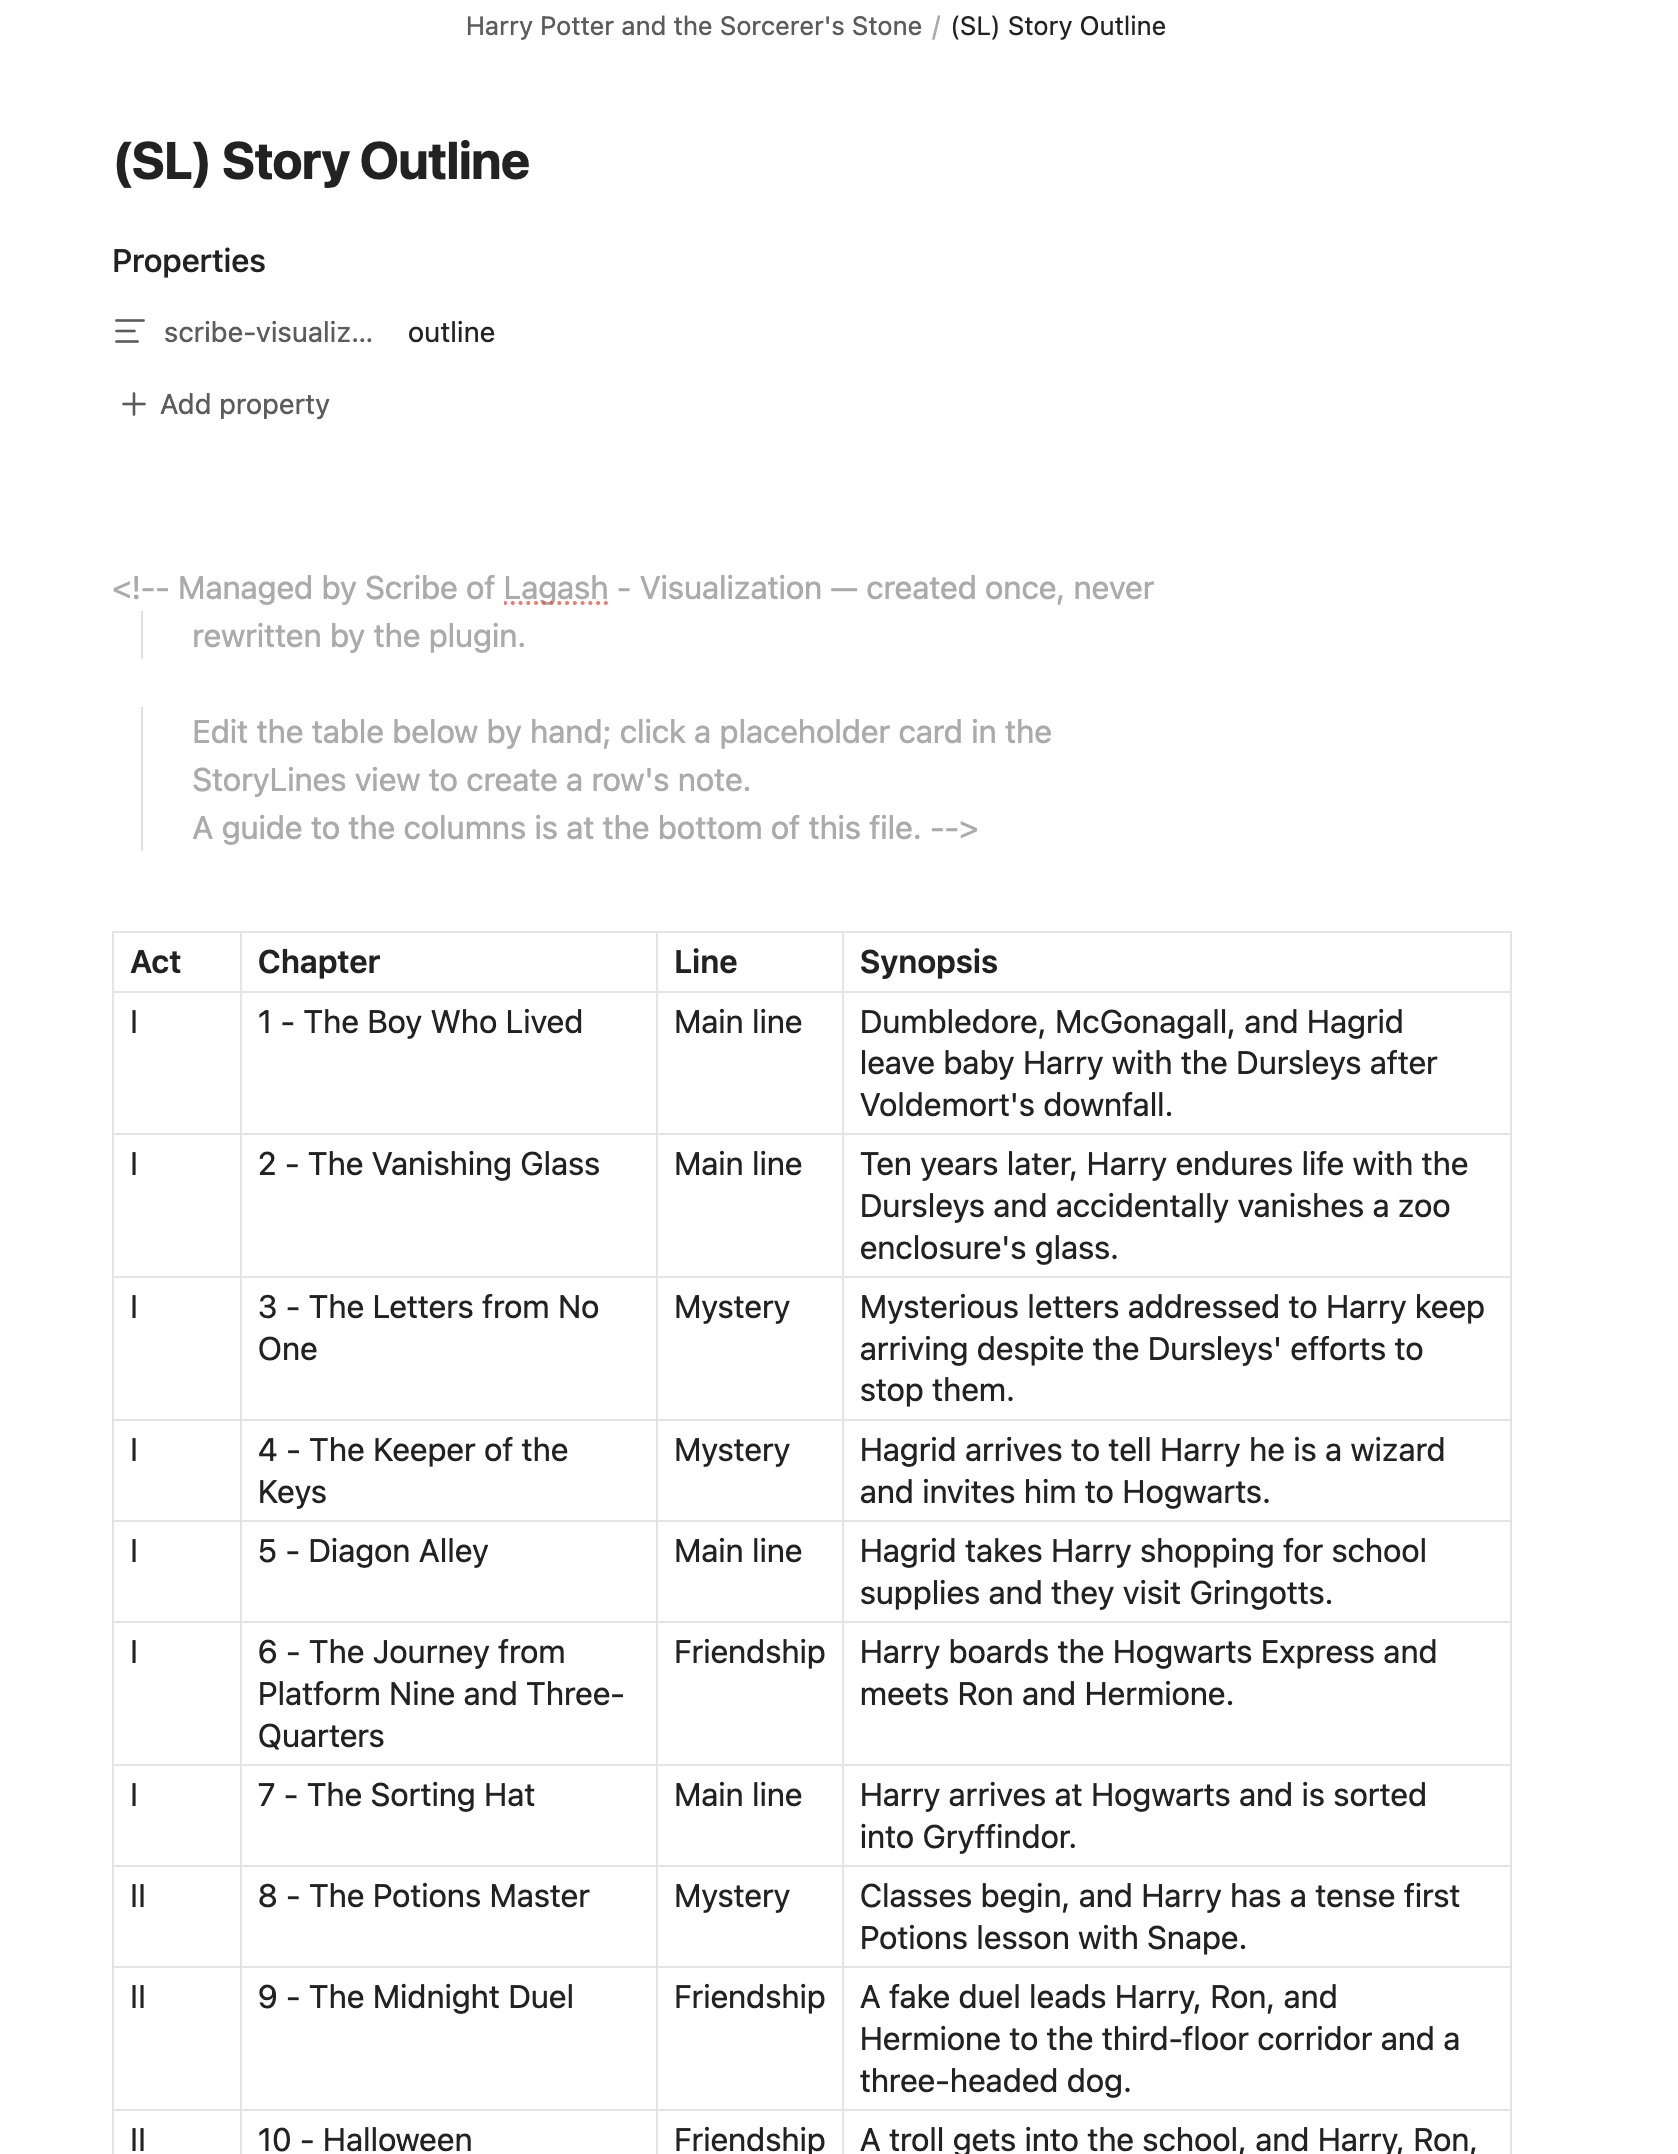
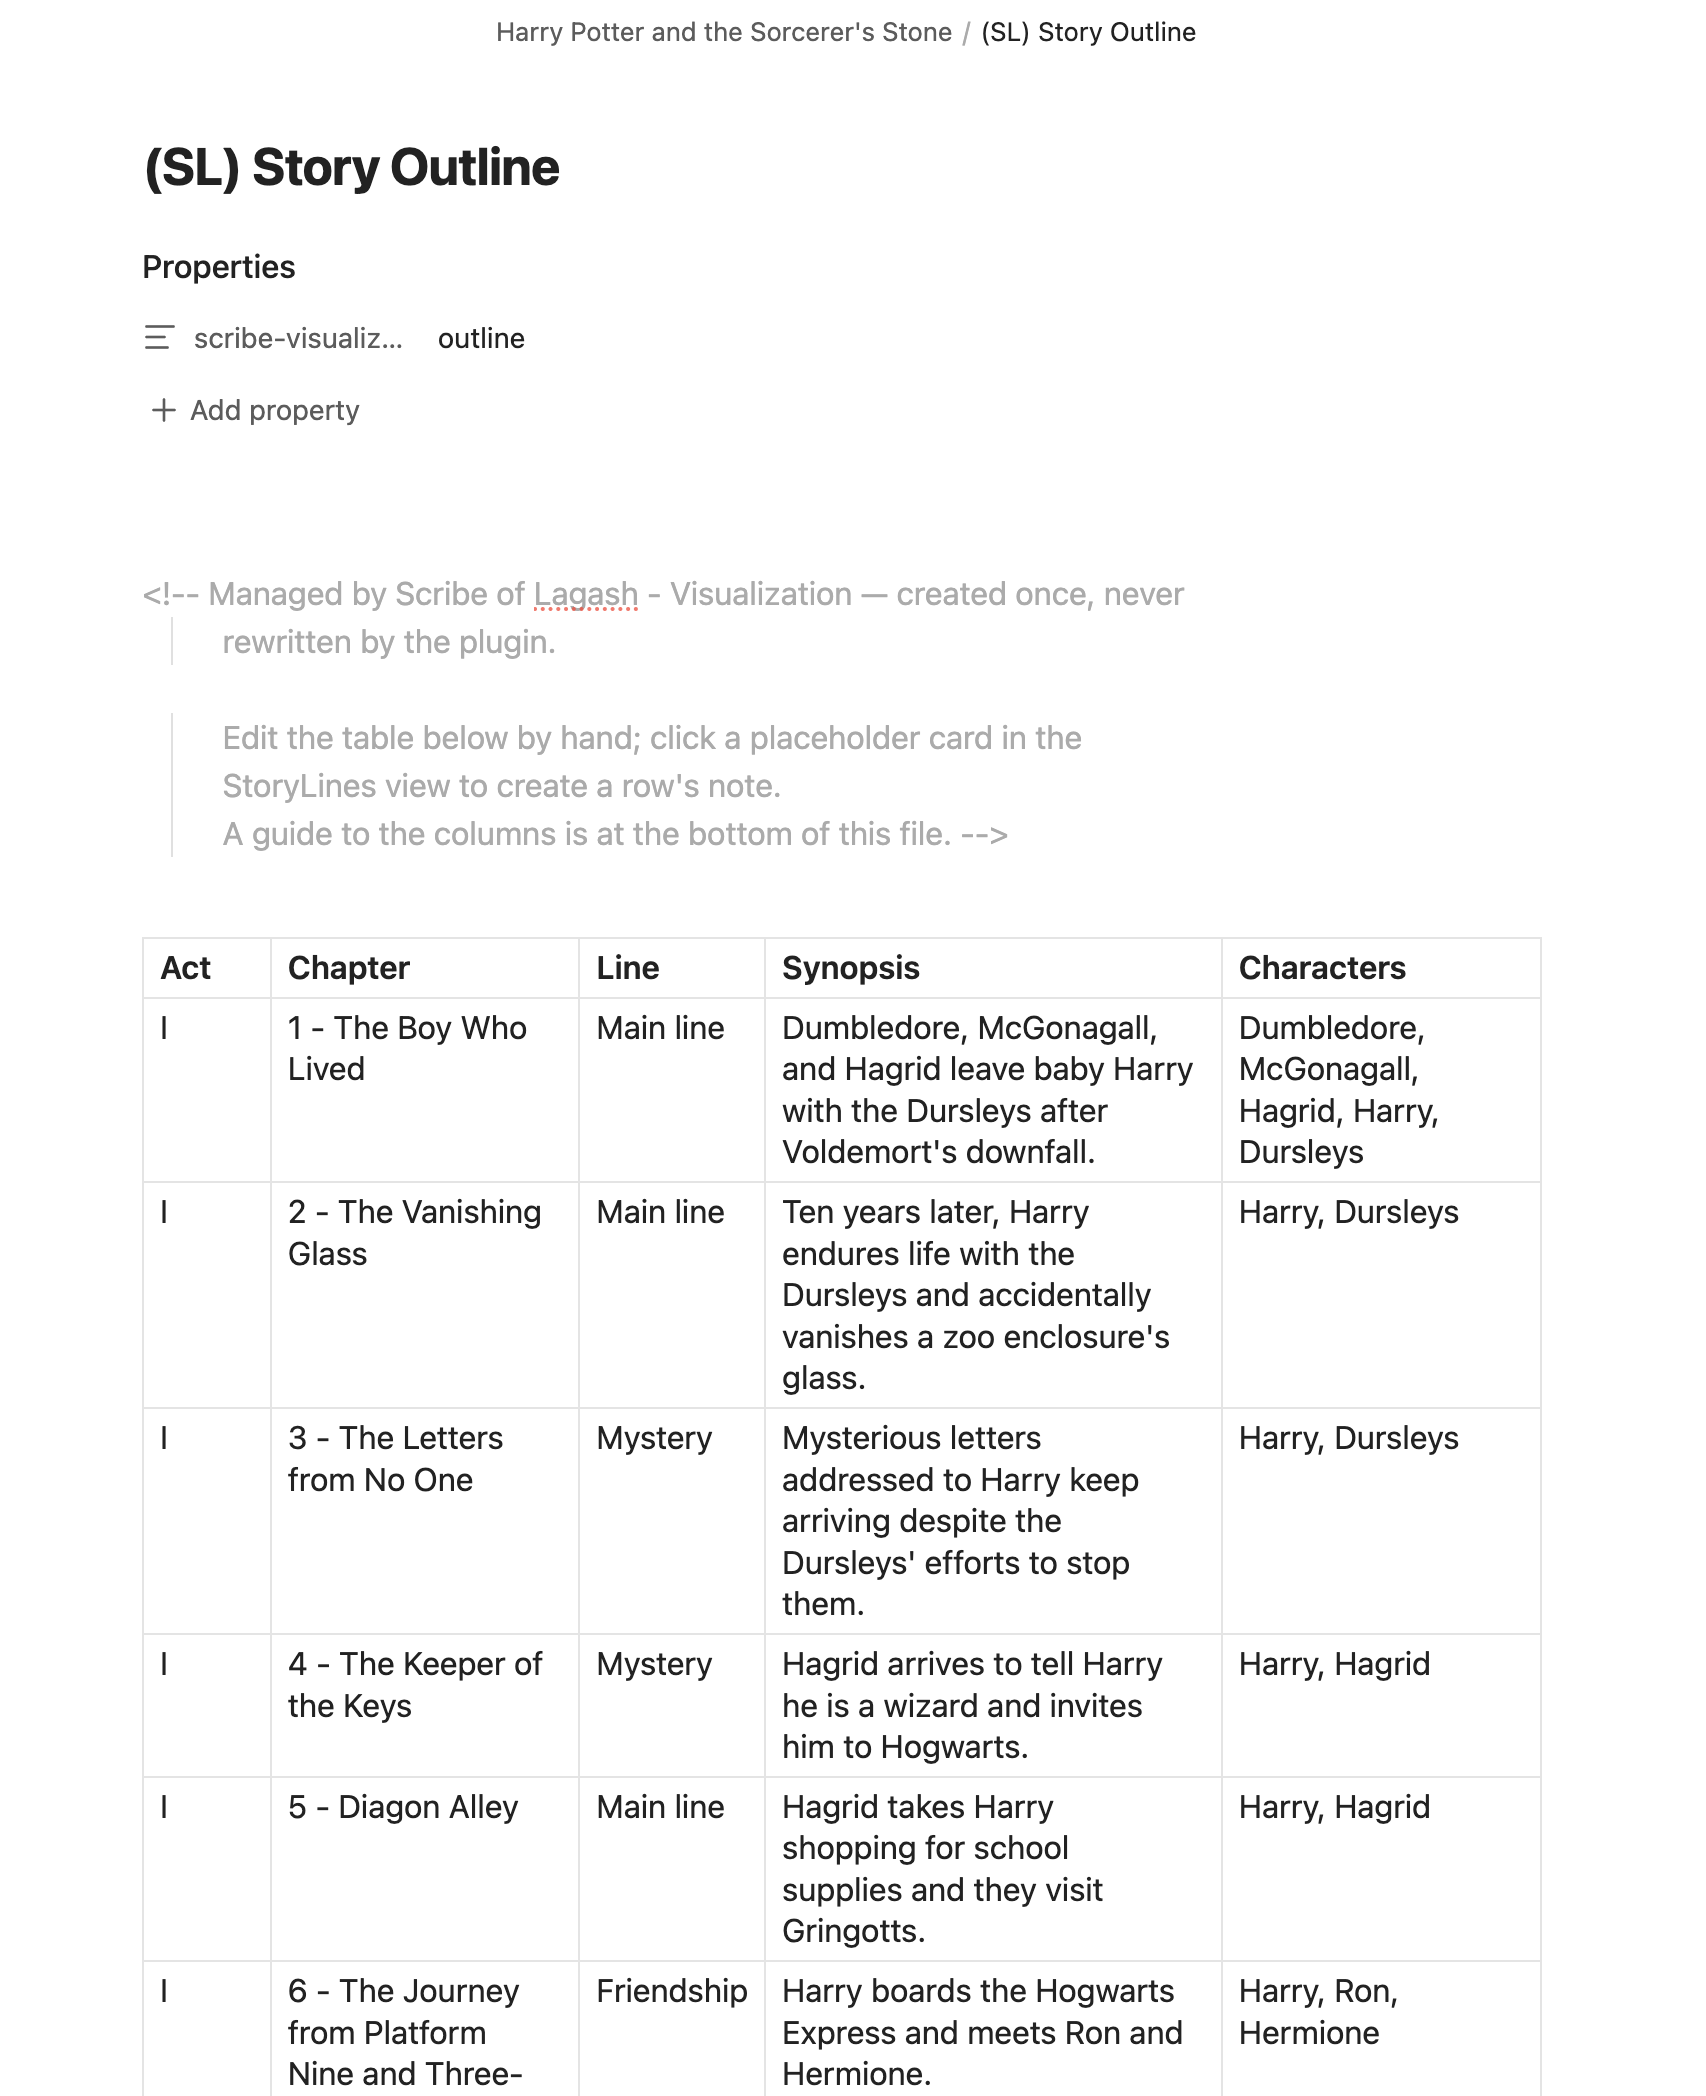
docs: update READEME with images and change "Characters mode" with "Characters mode view"

diff --git a/styles.css b/styles.css
@@ -505,7 +505,7 @@
 	padding-left: var(--size-4-4);
 }
 
-/* Read-only Characters mode: cards open their note on click but can't be dragged. */
+/* Read-only Characters mode view: cards open their note on click but can't be dragged. */
 .scribe-canvas-view.is-readonly .scribe-canvas-card {
 	cursor: pointer;
 }
@@ -518,7 +518,7 @@
 	cursor: default;
 }
 
-/* Characters mode: the "No characters listed" strip stays one scrollable row so
+/* Characters mode view: the "No characters listed" strip stays one scrollable row so
    it never takes space from the lines above it. */
 .scribe-canvas-view.is-readonly .scribe-canvas-unplaced {
 	flex: none;

diff --git a/src/views/charactersModel.ts b/src/views/charactersModel.ts
@@ -6,7 +6,7 @@ import { OutlineReconciliation } from "../data/outline";
 import { CanvasCard, CanvasLine, CanvasModel, LINE_COLOR_PALETTE, manuscriptColumns } from "./canvasModel";
 
 /**
- * Pure model for the read-only Characters mode: one derived line per
+ * Pure model for the read-only Characters mode view: one derived line per
  * character, each holding the chapters/scenes that name them, on the same
  * manuscript-order columns the StoryLines mode starts from. Nothing here is
  * ever saved — the lines and the card-on-several-lines duplication exist only

diff --git a/tests/views/viewModes.test.ts b/tests/views/viewModes.test.ts
@@ -66,7 +66,7 @@ test("the StoryLines mode builds exactly the canvas model", () => {
 	);
 });
 
-test("the Characters mode ignores the layout and groups by character", () => {
+test("the Characters mode view ignores the layout and groups by character", () => {
 	const empty: LineLayout = { lines: [], placements: {} };
 	const model = VIEW_MODES.characters.buildModel({ entries: [entry(["Alice"])], layout: empty, recon });
 	assert.deepEqual(model.lines.map((l) => l.def.name), ["Alice"]);

diff --git a/src/data/outline.ts b/src/data/outline.ts
@@ -204,7 +204,7 @@ export interface OutlineReconciliation {
 	fulfilledLineIds: Record<string, string>;
 	/**
 	 * Vault path -> the fulfilling row's `Characters` cell, for every fulfilled
-	 * path whose row lists any — lets the Characters mode merge them with the
+	 * path whose row lists any — lets the Characters mode view merge them with the
 	 * note's own `scribe-note-characters`.
 	 */
 	fulfilledCharacters: Record<string, string[]>;

diff --git a/AGENTS.md b/AGENTS.md
@@ -40,7 +40,7 @@ folder-based approach before adding a new frontmatter field or setting.
   **lines** (horizontal coloured tracks) and drags each card onto a line. The
   arrangement is saved in the Lines file. `LineView`, `VIEW_TYPE_LINE_VIEW`,
   ribbon icon / "Open lines" command.
-- **Characters mode** — a read-only alternative to the Line view, chosen with
+- **Characters mode view** — a read-only alternative to the Line view, chosen with
   the combo box at the top right of the same tab (mode kept in the leaf's view
   state, default Line view). One derived line per character, alphabetical,
   built by `charactersModel` in `views/charactersModel.ts` from
@@ -196,7 +196,7 @@ Entry point: [`src/main.ts`](src/main.ts) → `ScribeVisualizationPlugin`.
 | Path breadcrumb | [`src/data/pathContext.ts`](src/data/pathContext.ts) | Pure: `folderContext(filePath, baseFolder)` → folder segments shown under a card title |
 | Lines file I/O | [`src/data/lineFile.ts`](src/data/lineFile.ts) | `readLineLayout` / `writeLineLayout` for the per-story `Lines.md` (write preserves the note body via `processFrontMatter`, or creates the file) |
 | Line render model | [`src/views/canvasModel.ts`](src/views/canvasModel.ts) | Pure, unit-tested: `canvasModel(entries, layout, outline?)` → lines + real/ghost `cards` + `unplaced` + `plannedUnplaced`; `manuscriptColumns` (each card's default column on the shared reading-order axis); every layout edit (`moveCard` — drop at an exact column, pushing a card already there and its right neighbours over, no compaction; `alignToOutlineOrder` — snap the board back to the Story Outline: ghost cards drop any dragged placement and return to the line their `Line` cell names; a real note whose row names a line that exists in `Lines.md` (`OutlineReconciliation.fulfilledLineIds`) moves onto that line too, the same way — a real note with no row, or whose row names no valid line, keeps its current line; every placed card's column snaps to reading order (offered only when a Story Outline exists); `reconcilePlacements`, `applyPlannedPlacements`, `addLine` / `renameLine` / `recolorLine` / `moveLine` / `removeLine`, `cloneLayout`, `starterLayout`, `starterLayoutFromOutline` — a first layout with one line per outline `Line` value, entries seeded onto the line their row names at their manuscript column). **All layout maths live here, not in the view.** |
-| Characters model | [`src/views/charactersModel.ts`](src/views/charactersModel.ts) | Pure, unit-tested: `charactersModel(entries, reconciliation)` → a `CanvasModel` with one derived line per character for the read-only Characters mode (needs `OutlineReconciliation.fulfilledCharacters`) |
+| Characters mode viewl | [`src/views/charactersModel.ts`](src/views/charactersModel.ts) | Pure, unit-tested: `charactersModel(entries, reconciliation)` → a `CanvasModel` with one derived line per character for the read-only Characters mode view (needs `OutlineReconciliation.fulfilledCharacters`) |
 | View modes | [`src/views/viewModes.ts`](src/views/viewModes.ts) | Pure, unit-tested registry of the StoryLines tab's modes (`VIEW_MODES`): each `ViewModeDef` says whether it is `editable`, its empty/unplaced-strip wording, and its `buildModel`. **The view never checks which mode it is in** — it reads the descriptor (`isEditable()`, `def.buildModel`). A new mode (places, dates, …) is one entry here plus its model function; `parseViewMode` coerces saved view state |
 | Line view | [`src/views/lineView.ts`](src/views/lineView.ts) | `ItemView` (`VIEW_TYPE_LINE_VIEW`). DOM + pointer-drag only: renders from `canvasModel`, calls the pure ops via `mutate()` (push undo snapshot → apply → debounced save → re-render). Reads `Lines.md` + the outline on open / story-folder setting change / index change; a toolbar ⟳ button (shown only when `missingOutlineLines()` is non-empty) adds the lines the outline names but `Lines.md` lacks, an "Align cards to Story Outline " button (shown only while `outlineRows` is non-empty) re-spreads cards onto their reading-order columns, both as one undoable `mutate`; creates notes from ghost cards via a `confirm` modal |
 | Confirm modal | [`src/views/confirmModal.ts`](src/views/confirmModal.ts) | `confirm(app, {title, body, cta})` → `Promise<boolean>` (Obsidian ships no confirm primitive) |

diff --git a/README.md b/README.md
@@ -56,7 +56,7 @@ plugins for planning and writing stories:
   to the StoryLines file (`StoryLines.md`) automatically; `Mod+Z` undoes.
 
   <img src="https://raw.githubusercontent.com/aescanes/scribe-of-lagash-visualization/main/docs/images/storylines-tab.png" alt="StoryLines view" width="600">
-- **Characters mode** — the combo box at the top right of the StoryLines tab
+- **Characters mode view** — the combo box at the top right of the StoryLines tab
   switches between **StoryLines** and **Characters**. Characters keeps the same
   look but is read-only: one line per character (alphabetical), each showing
   the chapters/scenes that name them in reading order, so a scene with two
@@ -67,6 +67,8 @@ plugins for planning and writing stories:
   non-clickable cards, and notes with no characters sit in a "No characters
   listed" strip. Nothing is moved, created or saved in this mode, and each tab
   remembers its own mode.
+
+  <img src="https://raw.githubusercontent.com/aescanes/scribe-of-lagash-visualization/main/docs/images/character-lines-tab.png" alt="StoryLines view" width="600">
 - **Story Outline file** *(optional)* — name a file under **Story Outline file
   name** in settings and click **Create**; it's written as an empty
   Markdown table (Act / Chapter / Scene / Line / Synopsis). The `.md` extension
@@ -76,7 +78,10 @@ plugins for planning and writing stories:
   on the StoryLines view, and clicking one creates the note (title, Synopsis,
   frontmatter) on that line. Once a note exists its Synopsis shows on the
   card; a row that disagrees with the real note/folder gets a ⚠ marker — the
-  files always win. See
+  files always win.
+  
+  The optional `Characters` column (comma-separated names)
+  feeds the **Characters mode view** view, including for notes not written yet. See
   [docs/feature-plans/outline-file-plan.md](docs/feature-plans/outline-file-plan.md).
 
   <img src="https://raw.githubusercontent.com/aescanes/scribe-of-lagash-visualization/main/docs/images/story-outline.png" alt="Story Outline file" width="500">
@@ -171,7 +176,9 @@ e.g. a `Chapter` cell of `1 - The beginning` plans `Chapter 1 - The beginning.md
 the same as if you'd typed that title directly. The `Act` / `Chapter` / `Scene`
 words and folder names follow the **Title language** setting. `Line` is a line
 name or id from the StoryLines file; `Synopsis` shows on the card and becomes
-the note body when you create it. A row with neither a `Chapter` nor a `Scene`
+the note body when you create it. List the people in a scene under `Characters`
+(comma-separated, e.g. `Harry, Ron, Hermione`) to enable the **Characters mode view**
+view: each name becomes a line showing the chapters/scenes it appears in. A row with neither a `Chapter` nor a `Scene`
 value is ignored, and un-numbered units (`Prologue`, …) can't be planned here —
 create those notes directly. The Story Outline file created for you repeats
 this guide below the table.

diff --git a/docs/feature-plans/characters-view-plan.md b/docs/feature-plans/characters-view-plan.md
@@ -1,4 +1,4 @@
-# Implementation plan — the Characters mode of StoryLines
+# Implementation plan — the Characters mode view of StoryLines
 
 Status: **Built (phases 1–3).** Decisions below were confirmed by the maintainer. One refinement: a note/outline conflict is only flagged when *both* sides list characters and they differ — the outline column is optional, so an empty side is not a conflict.
 Branch: `feat/characters-storylines-view`.
@@ -23,7 +23,7 @@ The source of truth for "who appears where":
   `OutlineRow.characters`), which also covers planned notes that have no file yet.
 
 This follows the plugin's core principle: the plugin never edits notes, and the
-Characters mode **writes nothing at all** — not even `Lines.md`.
+Characters mode view **writes nothing at all** — not even `Lines.md`.
 
 ## What already exists and gets reused
 
@@ -37,7 +37,7 @@ Characters mode **writes nothing at all** — not even `Lines.md`.
 | Line colours | `LINE_COLOR_PALETTE` in `canvasModel.ts` |
 
 > Note: "one card belongs to exactly one line" is a rule of the StoryLines mode
-> (`AGENTS.md`). In Characters mode a scene with two characters **must** appear
+> (`AGENTS.md`). In Characters mode view a scene with two characters **must** appear
 > on two lines — that is the point of the view. It is derived data, never saved,
 > so it doesn't conflict with the Lines-file rule.
 
@@ -81,9 +81,9 @@ view can reuse the existing renderer:
   "Create N planned notes" buttons; ghost cards are shown dashed but a click does
   **not** create a note (see open question 3). Real cards still open their note
   on click. `Mod+Z` is a no-op in this mode.
-- Characters mode does **not** require `Lines.md`: it works with only notes, only
+- Characters mode view does **not** require `Lines.md`: it works with only notes, only
   an outline, or both. The "Create lines" prompt is skipped.
-- `autoPlace()` / `save()` are skipped while in Characters mode (nothing to
+- `autoPlace()` / `save()` are skipped while in Characters mode view (nothing to
   write); the in-memory StoryLines `layout` and its undo stack are kept so
   switching back loses nothing.
 - Persist the chosen mode in the leaf's view state (`getState` / `setState`) so it
@@ -135,7 +135,7 @@ story" section + architecture table + the one-card-one-line note), this plan.
   Decision: Union of both and use the same warning icon with a small message with this "conflict"
 2. **Where is the selected mode remembered?** 
   Decision: Per-tab view state (recommended, no setting added, in line with "favour fewer settings")
-3. **Ghost cards (planned, no note yet) in Characters mode:** 
+3. **Ghost cards (planned, no note yet) in Characters mode view:** 
   Decision: Show them dashed and non-clickable (recommended — the mode is read-only)
 4. **Line order for characters:** 
   Decision: Alphabetical

diff --git a/CHANGELOG.md b/CHANGELOG.md
@@ -8,7 +8,7 @@ is based on [Keep a Changelog](https://keepachangelog.com/en/1.1.0/).
 ## [0.10.0](https://github.com/aescanes/scribe-of-lagash-visualization/releases/tag/0.10.0) - 2026-10-01
 
 ### Added
-- **Characters mode** for the StoryLines tab: a combo box at the top right
+- **Characters mode view** for the StoryLines tab: a combo box at the top right
   switches between **StoryLines** (unchanged) and a read-only **Characters**
   view with one line per character, built from the notes'
   `scribe-note-characters` frontmatter and the Story Outline's `Characters`
